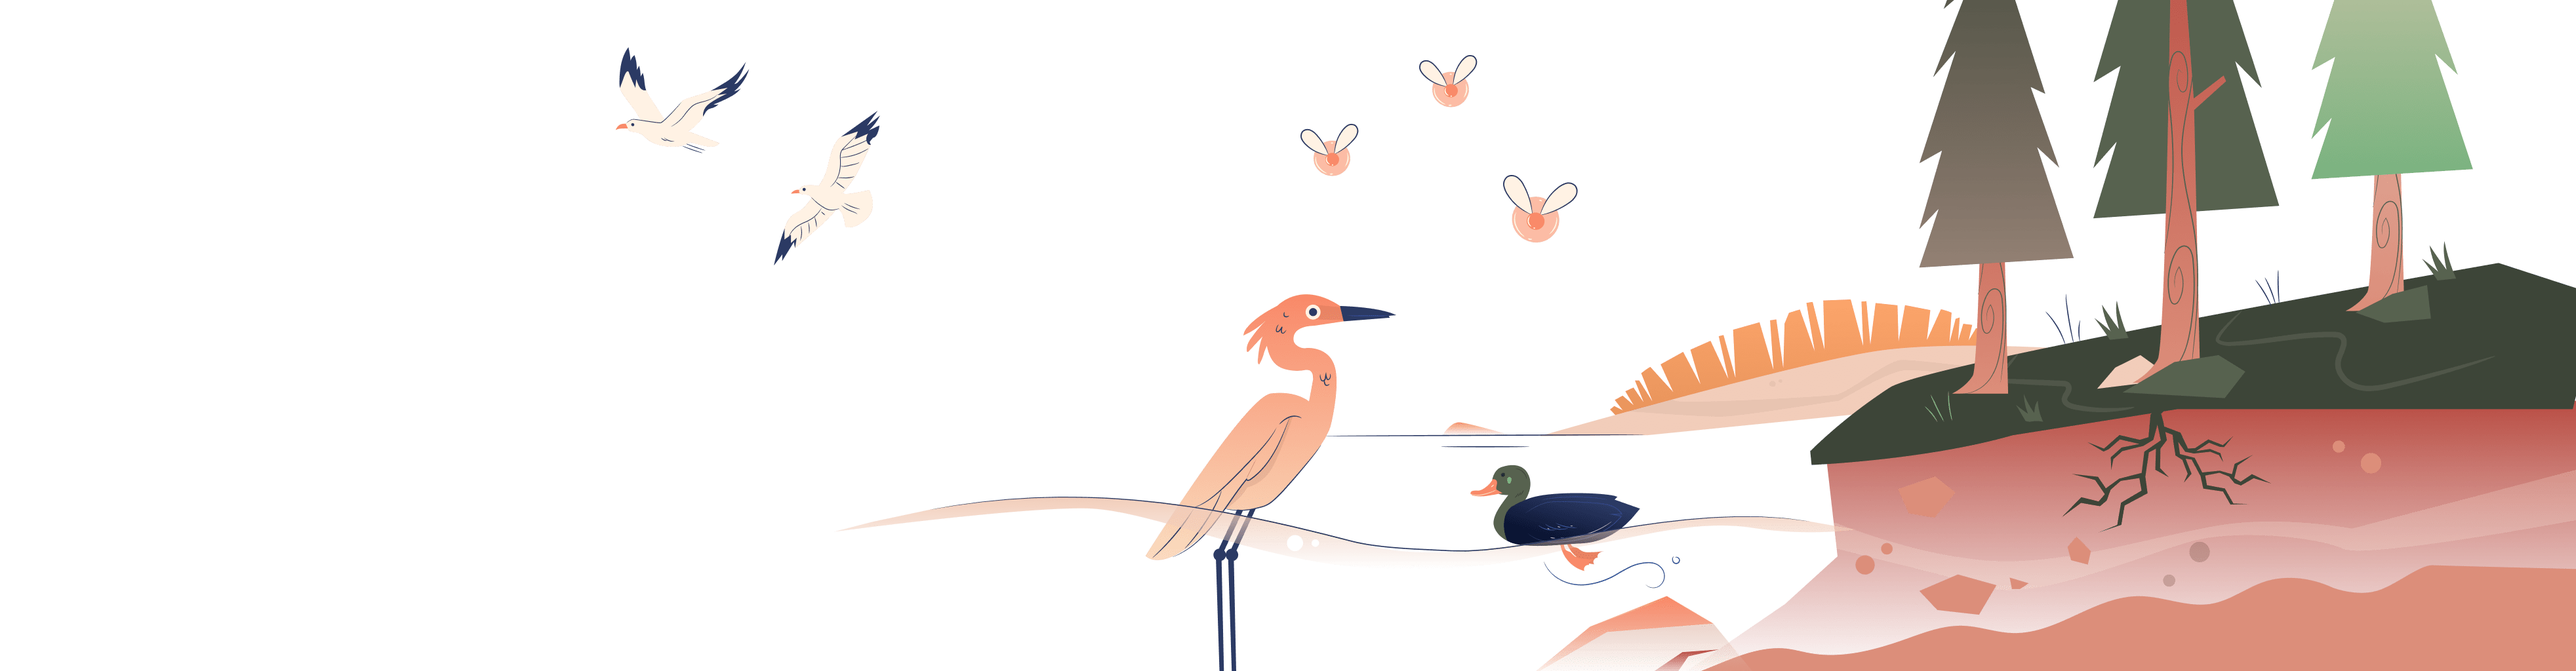
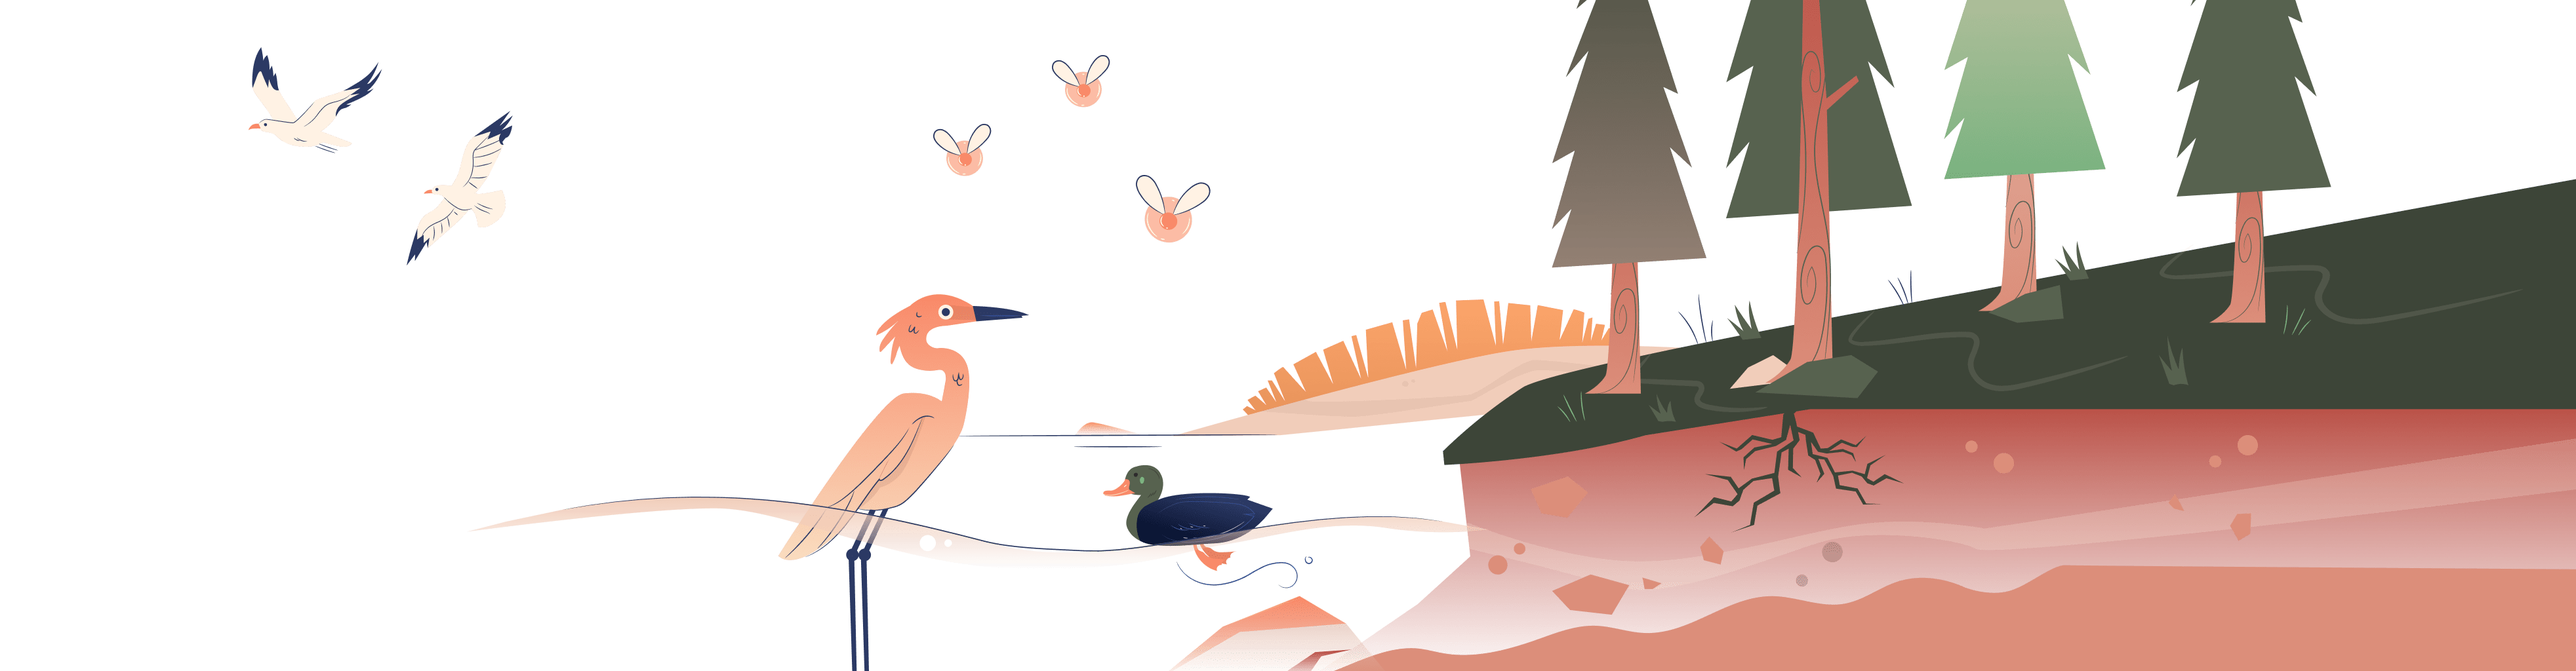
update chapter 8

diff --git a/components/Chapter8.vue b/components/Chapter8.vue
@@ -20,7 +20,7 @@
           ref="parallax-ft"
           alt="front-parallax"
           v-lazy="require(`@/assets/img/chapter-8/front-parallax.png`)"
-          :style="{ left: '90%' }"
+          :style="{ left: '80%' }"
         />
         <img
           class="
@@ -29,7 +29,7 @@
           ref="parallax-middle"
           alt="middle-parallax"
           v-lazy="require(`@/assets/img/chapter-8/middle-parallax.png`)"
-          :style="{ left: '62%' }"
+          :style="{ left: '78%' }"
         />
       </div>
       <div class="b--ss-a__content">
@@ -58,7 +58,7 @@
         <div
           class="b--chapter8-a__artwork"
           ref="plant"
-          :style="{ left: '95%' }"
+          :style="{ left: '97%' }"
         >
           <div
             class="b--motion-e"
